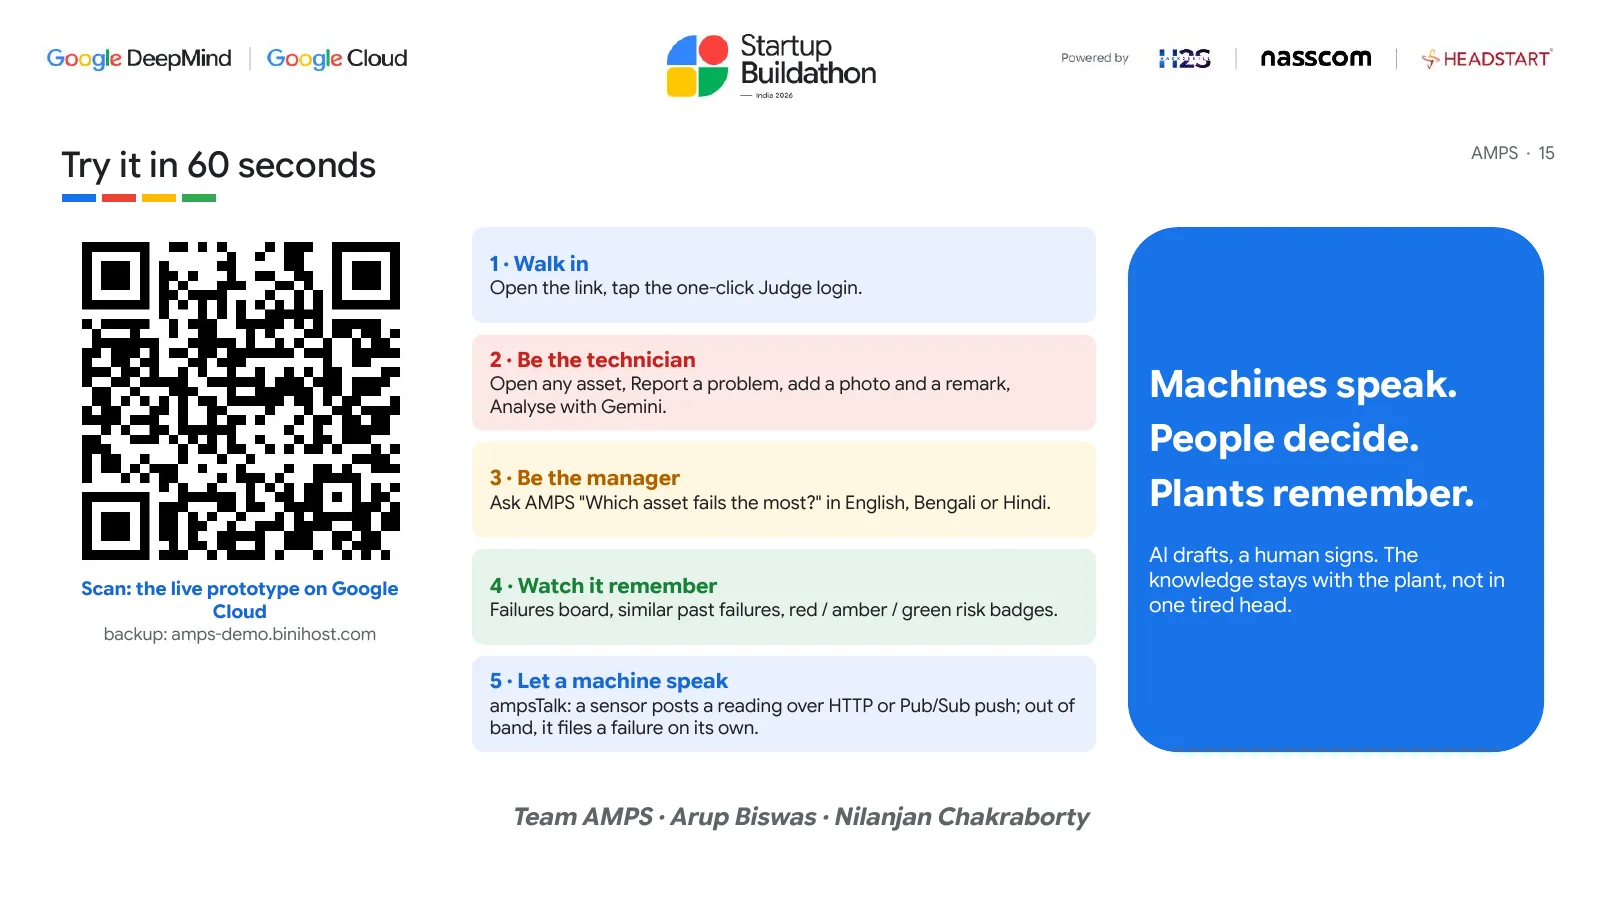
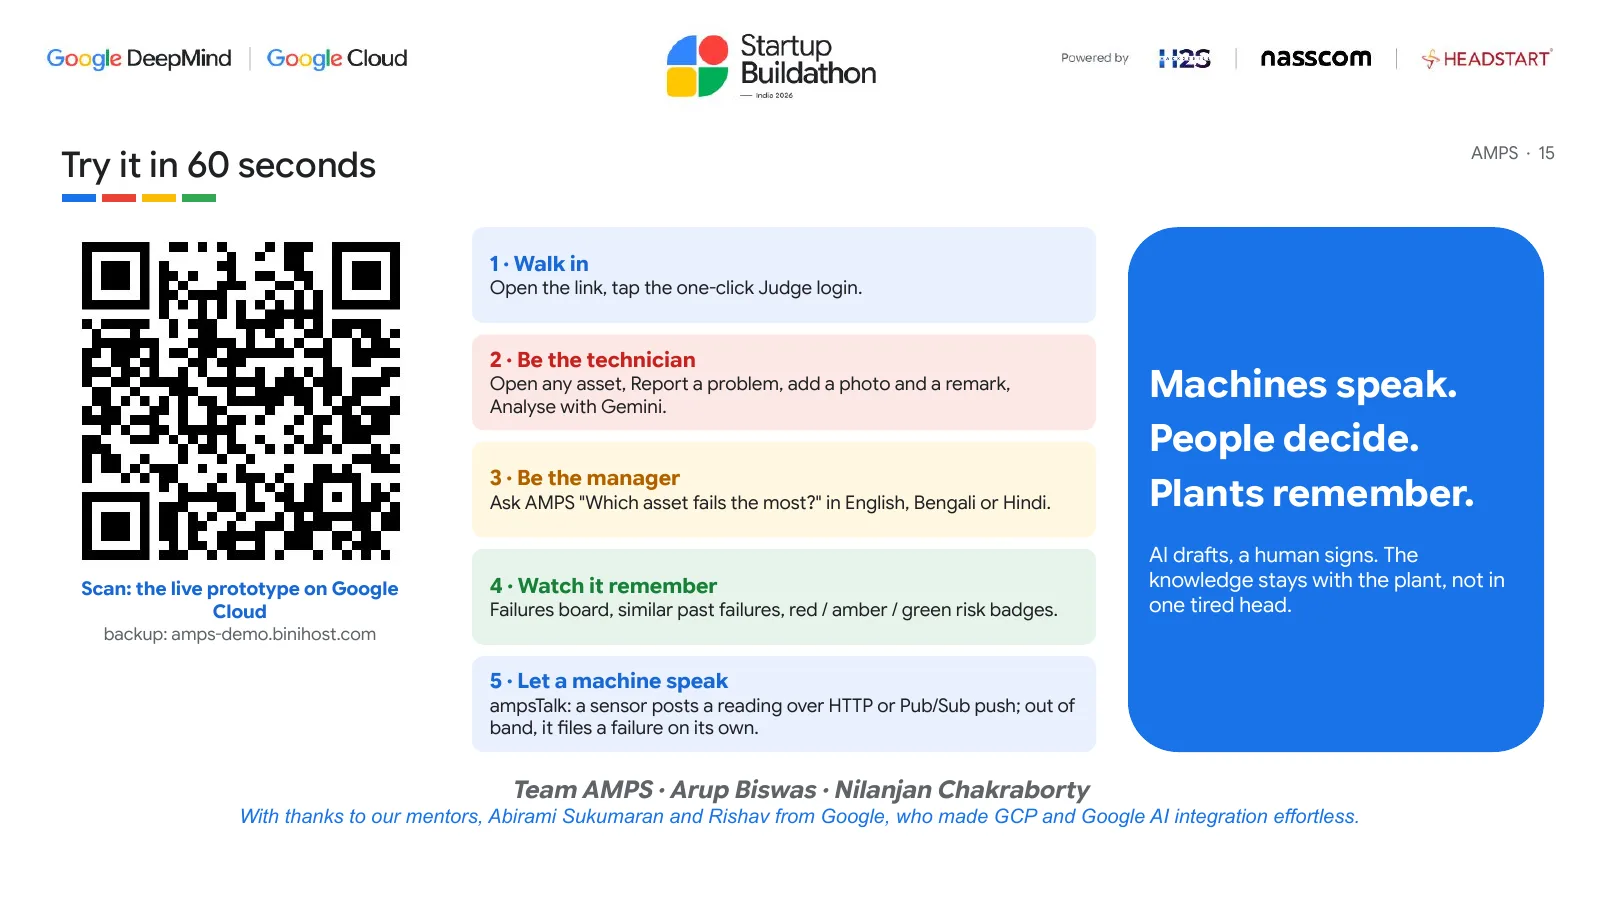
v89: MCP tools always visible, mentor thanks (Abirami Sukumaran, Rishav) on pitch + slide 15

Changed region(s): [[0.1562, 0.8711, 0.8438, 0.9333], [0.75, 0.8089, 0.9375, 0.84]]

diff --git a/frontend/src/aihub.jsx b/frontend/src/aihub.jsx
@@ -200,7 +200,6 @@ function VoiceBand({ on }) {
 export default function AiHub() {
   const { me } = useMe()
   const [ai, setAi] = useState(undefined) // undefined = checking, null = unreachable
-  const [mcp, setMcp] = useState(false)
   const [copied, setCopied] = useState(false)
   useEffect(() => {
     fetch(`${API}/api/ai/status`).then((r) => (r.ok ? r.json() : null)).then(setAi).catch(() => setAi(null))
@@ -254,8 +253,9 @@ export default function AiHub() {
         <Card tone="green" status="live" layer={1} title="MCP server" product="Model Context Protocol · Agent Skills"
               icon="M9 3v5M15 3v5M6 8h12v3a6 6 0 0 1-12 0zM12 17v4"
               line="Any agent, Antigravity or others, can use AMPS through the same six tools, read-only.">
-          <button type="button" className="aih-btn pri" aria-expanded={mcp} onClick={() => setMcp((v) => !v)}>
-            {mcp ? 'Hide the tools' : 'See the 6 tools'}</button>
+          <button type="button" className="aih-btn pri"
+                  onClick={() => document.getElementById('aih-mcp')?.scrollIntoView({ behavior: 'smooth', block: 'start' })}>
+            See the 6 tools ↓</button>
         </Card>
 
         <Card tone="blue" status="live" layer={1} title="Similar past failures" product="RAG · gemini-embedding-001 · EmbeddingGemma on-prem"
@@ -280,8 +280,7 @@ export default function AiHub() {
         </Card>
       </section>
 
-      {mcp && (
-        <section className="aih-mcp" aria-label="AMPS MCP tools">
+      <section className="aih-mcp" id="aih-mcp" aria-label="AMPS MCP tools">
           <div>
             <h2>Six read-only tools</h2>
             <ul>{TOOLS.map(([n, d]) => <li key={n}><code>{n}</code><span>{d}</span></li>)}</ul>
@@ -294,7 +293,6 @@ export default function AiHub() {
             <p className="aih-note">Offline: <code>python -m app.mcp_server</code> over stdio. Rules for agents: skill <code>amps-guardrails</code>.</p>
           </div>
         </section>
-      )}
 
       <ol className="aih-flow" aria-label="How a Snap travels">
         <li><small>Phone</small><b>Photo + rough note</b></li>
@@ -365,7 +363,7 @@ const AIH_CSS = `
 .aih-chip { text-align: left; padding: 6px 10px; border-radius: 999px; border: 1px solid var(--accent-line); background: var(--accent-soft);
   color: var(--ink); font: inherit; font-size: 12.5px; cursor: pointer; }
 .aih-chip:disabled { opacity: .5; cursor: not-allowed; }
-.aih-mcp { display: grid; grid-template-columns: 1fr 1fr; gap: 24px; padding: 18px; border: 1px solid var(--border); border-radius: var(--r-lg);
+.aih-mcp { scroll-margin-top: 72px; border-top: 3px solid #34A853; display: grid; grid-template-columns: minmax(0,1fr) minmax(0,1fr); gap: 24px; padding: 18px; border: 1px solid var(--border); border-radius: var(--r-lg);
   background: var(--card-bg); backdrop-filter: var(--card-blur); }
 .aih-mcp h2 { margin: 0 0 8px; font-size: 15px; color: var(--ink); }
 .aih-mcp ul { list-style: none; margin: 0; padding: 0; display: flex; flex-direction: column; gap: 6px; }
@@ -409,7 +407,7 @@ const AIH_CSS = `
 .aih-proof span { font-size: 12px; color: var(--ink-2); }
 @media (max-width: 900px) { .aih-arch-map { grid-template-columns: 1fr; } .aih-links { flex-direction: row; justify-content: center; } .aih-proof { grid-template-columns: 1fr; } }
 @media (max-width: 1100px) { .aih-grid { grid-template-columns: repeat(2, minmax(0, 1fr)); } }
-@media (max-width: 760px) { .aih-layers { grid-template-columns: 1fr; } .aih-layer li { grid-template-columns: 1fr; gap: 0; } .aih-mcp { grid-template-columns: 1fr; } .aih-flow { grid-template-columns: repeat(2, minmax(0, 1fr)); } }
+@media (max-width: 760px) { .aih-layers { grid-template-columns: 1fr; } .aih-layer li { grid-template-columns: 1fr; gap: 0; } .aih-mcp { grid-template-columns: minmax(0,1fr); } .aih-flow { grid-template-columns: repeat(2, minmax(0, 1fr)); } }
 @media (max-width: 500px) {
   .aih-grid, .aih-flow { grid-template-columns: 1fr; }
   .aih-head h1 { font-size: 24px; }

diff --git a/frontend/src/brief.jsx b/frontend/src/brief.jsx
@@ -78,7 +78,7 @@ const FAQ = [
 
 const SHOW_DECK = true
 const PITCH = `${import.meta.env.BASE_URL}pitch/`
-const src = (i) => `${PITCH}d16/${String(i + 1).padStart(2, '0')}.webp?v=1121`
+const src = (i) => `${PITCH}d16/${String(i + 1).padStart(2, '0')}.webp?v=1121c`
 
 function Deck() {
   const [i, setI] = useState(0)
@@ -262,6 +262,9 @@ export default function Brief() {
         <li><b>Partners</b> — integrators and OEMs in transit, utilities and manufacturing.</li>
         <li><b>Google</b> — cloud credits and mentorship to ship the Gemini layer at scale.</li>
       </ul>
+      <h2><span>♥</span>Thanks</h2>
+      <p>To our mentors, <b>Abirami Sukumaran</b> (Google Cloud Databases &amp; AI) and <b>Rishav</b> from Google,
+        who taught us so much and made the GCP and Google AI integration feel effortless.</p>
       <p className="br-foot">Source: github.com/arupbiswas1994-byte/amps · MIT · Demo data on this site is synthetic.</p>
       </div>
       </aside>

diff --git a/BUILDATHON_NOTES.md b/BUILDATHON_NOTES.md
@@ -223,6 +223,7 @@ Her codelab flow: **Provision** (AlloyDB Express) → **Enrich in SQL** (embeddi
 | 21 Nov 01:30 (Arup) | **Google Slides submission deck is the one to edit.** Link saved: https://docs.google.com/presentation/d/1IQdBwCr11AwtRYKYjVSp0SHhAV7PH9IL_AjGdiS8mv0/edit. Exported, then 7 text fixes: gemini-embedding-001 → EmbeddingGemma · Gemma 3 4B; similar failures on-prem 17/18 vs nomic 8 (Bengali 5/5 vs 0/5); Gemma fallback; [prototype link] → amps-demo.binihost.com; [demo login] → one-click Judge login. Saved as `deck/AMPS_submission_deck.pptx`, sent on TG. Then pushed onto the same Google file (Drive files.update), 8 slides verified, companion PDF refreshed. The Slides API is not needed | Keep iterating on the Google file |
 | 21 Nov 05:00 (Arup "go", "voice in snap and report", "roll to gcp and binihost") | **Voice chat.** Ask AMPS: 🎤 speak in EN / বাং / हिं (live words in the box), spoken questions get the answer read back, 🔊 Listen / ■ Stop on every answer. Snap & Report: language pick on the remark mic + 🔊 Listen reads the Gemini draft (summary, cause, action, safety). AI page: new voice band (4-colour mic, three language chips that open Ask), Layer 1 "Voice in + out", arch rows Gemini 3.5 Flash-Lite · Gemini API + Cloud Run / Cloud SQL, Google-palette cards. Browser Web Speech API only, no backend change. Rolled: judges' frontend `oc11210455-voice`; Cloud Run amps-web `d3-2ce44bf` (Cloud Build, frontend only, env kept) revision 00003-gf2. Both serve bundle `C4G0p3Ib`, 0 `localhost:`. Rollback: judges `rollout undo`; Cloud Run traffic → `amps-web-00002-v8x` | `frontend/src/voice.jsx` (new), `ask.jsx`, `snap.jsx`, `aihub.jsx`, `styles.css` |
 | 21 Nov 05:15 (Arup "landing after login", "pitch with updated deck", "fix the count as per db") | **v88 landing + pitch.** Logo → `#/welcome`: the landing shows for signed-in users too (nav says "Open app →"). Landing restyled in the AI page's Google look (4-colour bars, tonal cards, light sections). Pitch page shows the 16-slide deck (`public/pitch/d16`) with the coloured scrolling sidebar. Proof numbers now match the judges' DB: 1,874 assets · 4 sites · 40 stations · 14,660 records (May 2025 – Nov 2026), replacing 7,900+/33,000+. Judges image `oc11210514-counts` (rollback `rollout undo`), Cloud Run `d3-<sha>` (rollback traffic → amps-web-00002-v8x) | Landing reachable after login; pitch numbers must match what judges can see |
+| 21 Nov 05:20 (Arup "mcp tools always visible", "credit the mentors") | **MCP tools always shown** on the AI page (no toggle; the card button scrolls to them; grid `minmax(0,1fr)` so the config never pushes past the viewport). **Mentor thanks**: deck slide 15 footer line (Abirami Sukumaran + Rishav from Google; one-slide guarded upload) and a "Thanks" block at the end of the pitch sidebar; `d16/15.webp` re-rendered from the new PDF. Judges image `oc11210517-mcp` then the final roll below | Judges must see the tools without a click; credit where it is due |
 
 ## 6. Open items (21 Nov 00:45; current view = §0)
 | Item | Owner | Next |
